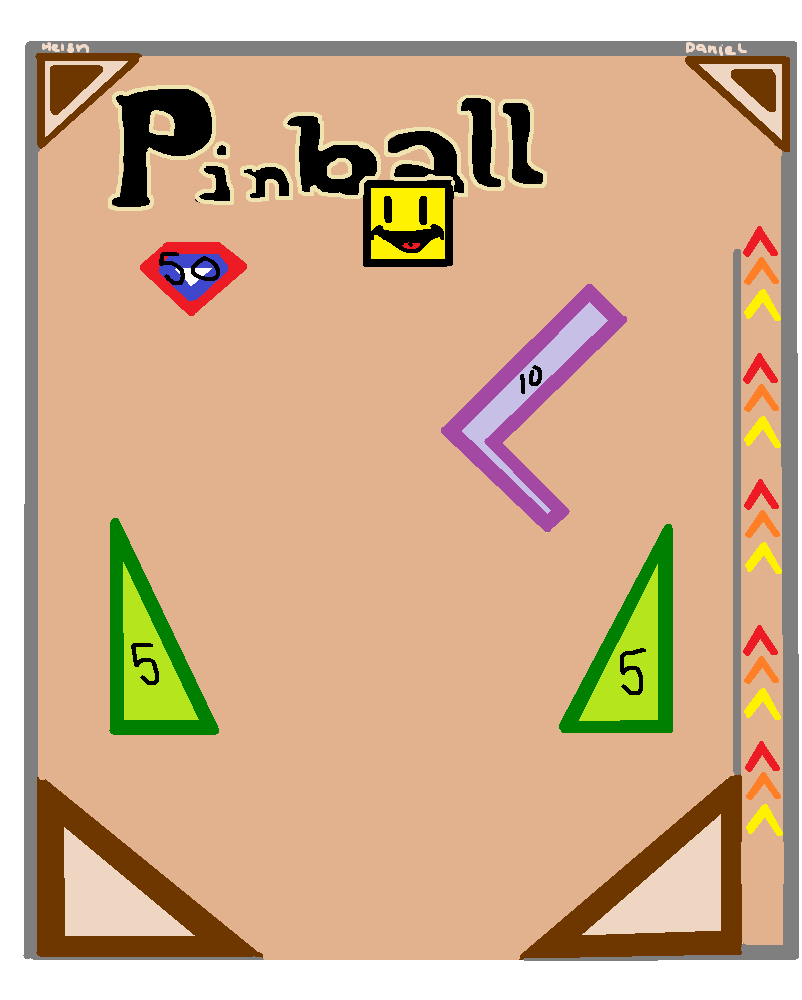
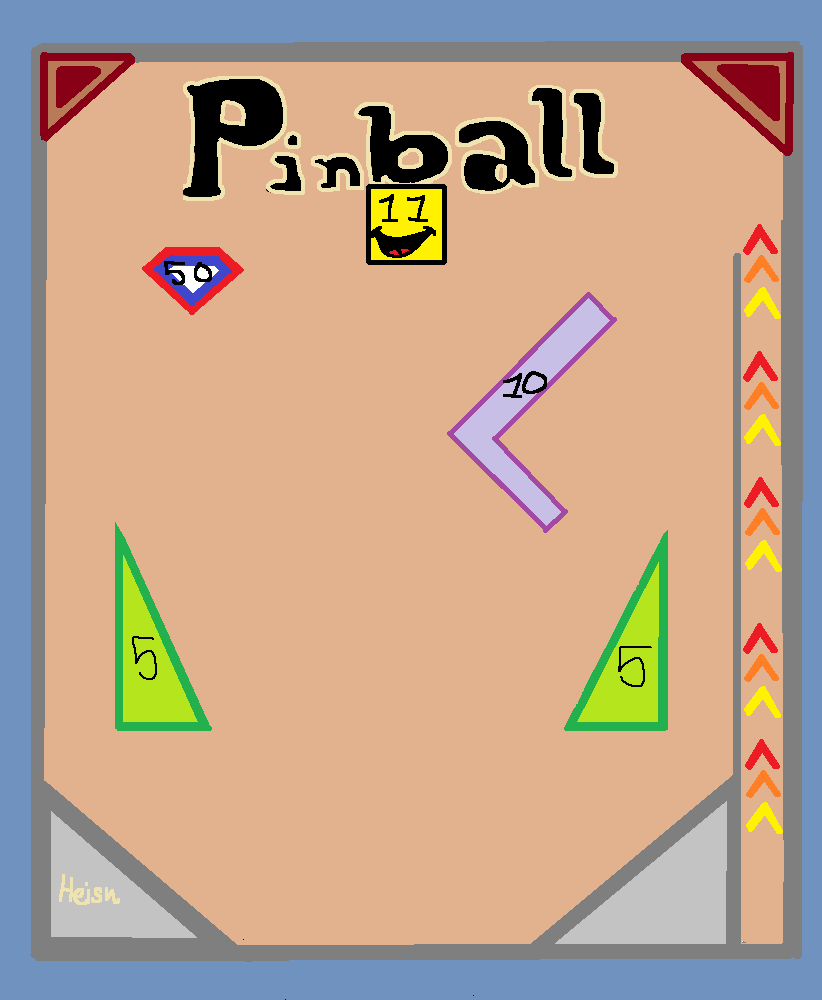
Updated Graphics

diff --git a/simulation.py b/simulation.py
@@ -40,10 +40,9 @@ Game_Text = pygame.font.Font("DeterminationSansWebRegular-369X.ttf", 30)
 imp = [] #List of all background frames
 
 # Set up Background frames
-imp.append(pygame.image.load("Pinball_Background\Pinball_1.png").convert())
-imp.append(pygame.image.load("Pinball_Background\Pinball_2.png").convert())
-imp.append(pygame.image.load("Pinball_Background\Pinball_3.png").convert())
-test_imp = pygame.image.load("Pinball_Background\PinBall_Test.png").convert()
+imp.append(pygame.image.load("Pinball_Background\PinBall_1.png").convert())
+imp.append(pygame.image.load("Pinball_Background\PinBall_2.png").convert())
+imp.append(pygame.image.load("Pinball_Background\PinBall_3.png").convert())
  
 i = 0 #index for which background frame used
 
@@ -56,7 +55,7 @@ sound[2] = pygame.mixer.Sound("Sounds\Pinball\multifellovo.wav")
 sound[3] = pygame.mixer.Sound("Sounds\Pinball\sproing.wav")
 
 #Debugging Flag - if true all collision shapes appear
-is_Debug = False
+is_Debug = True
 
 #Left Flipper properties
 L_rotated_point = (201, 910)
@@ -73,8 +72,8 @@ d = 0
 max_d = 80
 
 #Ball properties
-vel = [-150,80]
-start_pos = [270, 249]
+vel = [0, 400]
+start_pos = [763, 750]
 pos = copy.deepcopy(start_pos)
 m = 10
 radius = 15
@@ -265,19 +264,13 @@ while running:
         if event.type == pygame.MOUSEBUTTONDOWN:
                 x, y = pygame.mouse.get_pos()
                 print(f'Mouse clicked at ({x}, {y})')
-                
-    # Set up Background frames
-    imp[0] = pygame.image.load("Pinball_Background\Pinball_1.png").convert()
-    imp[1] = pygame.image.load("Pinball_Background\Pinball_2.png").convert()
-    imp[2] = pygame.image.load("Pinball_Background\Pinball_3.png").convert()
     
 # Using blit to copy content from one surface to other
-    if is_Debug:
-        screen.blit(test_imp, (-1, -3))
-        if i == 2: i = 0
-        elif total_Frames % 10 == 0: i += 1
-    else:
-        screen.blit(test_imp, (-1, -3))
+
+    screen.blit(imp[i], (-1, -3))
+    if i == 2: i = 0
+    elif total_Frames % 10 == 0: i += 1
+
     
     if is_Debug:
         #Boarder prints
